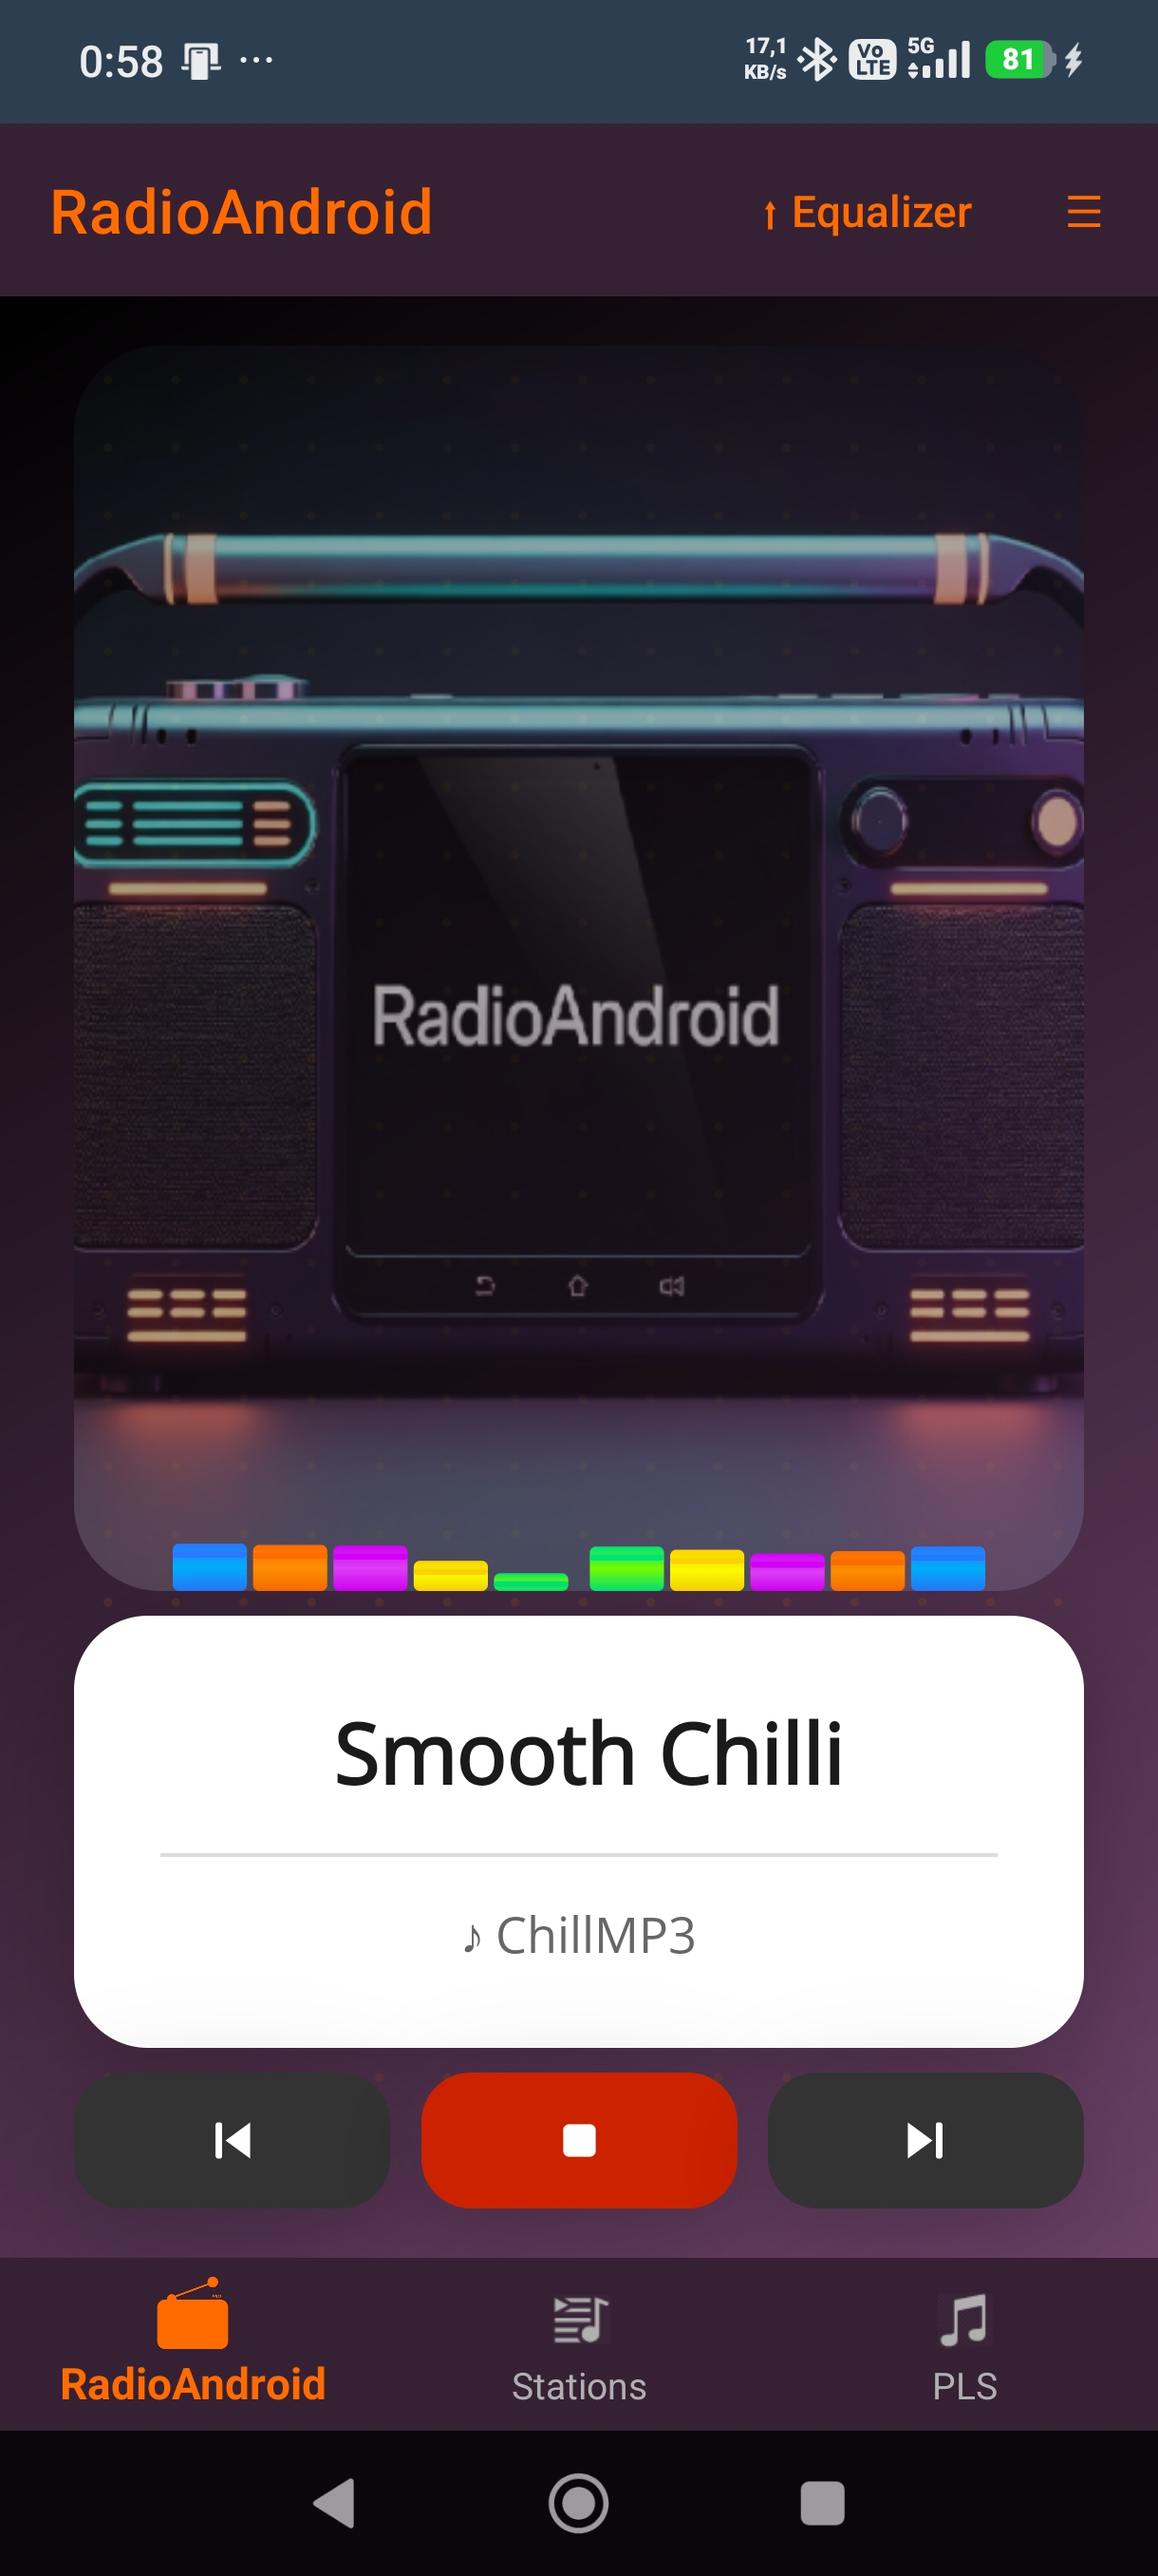
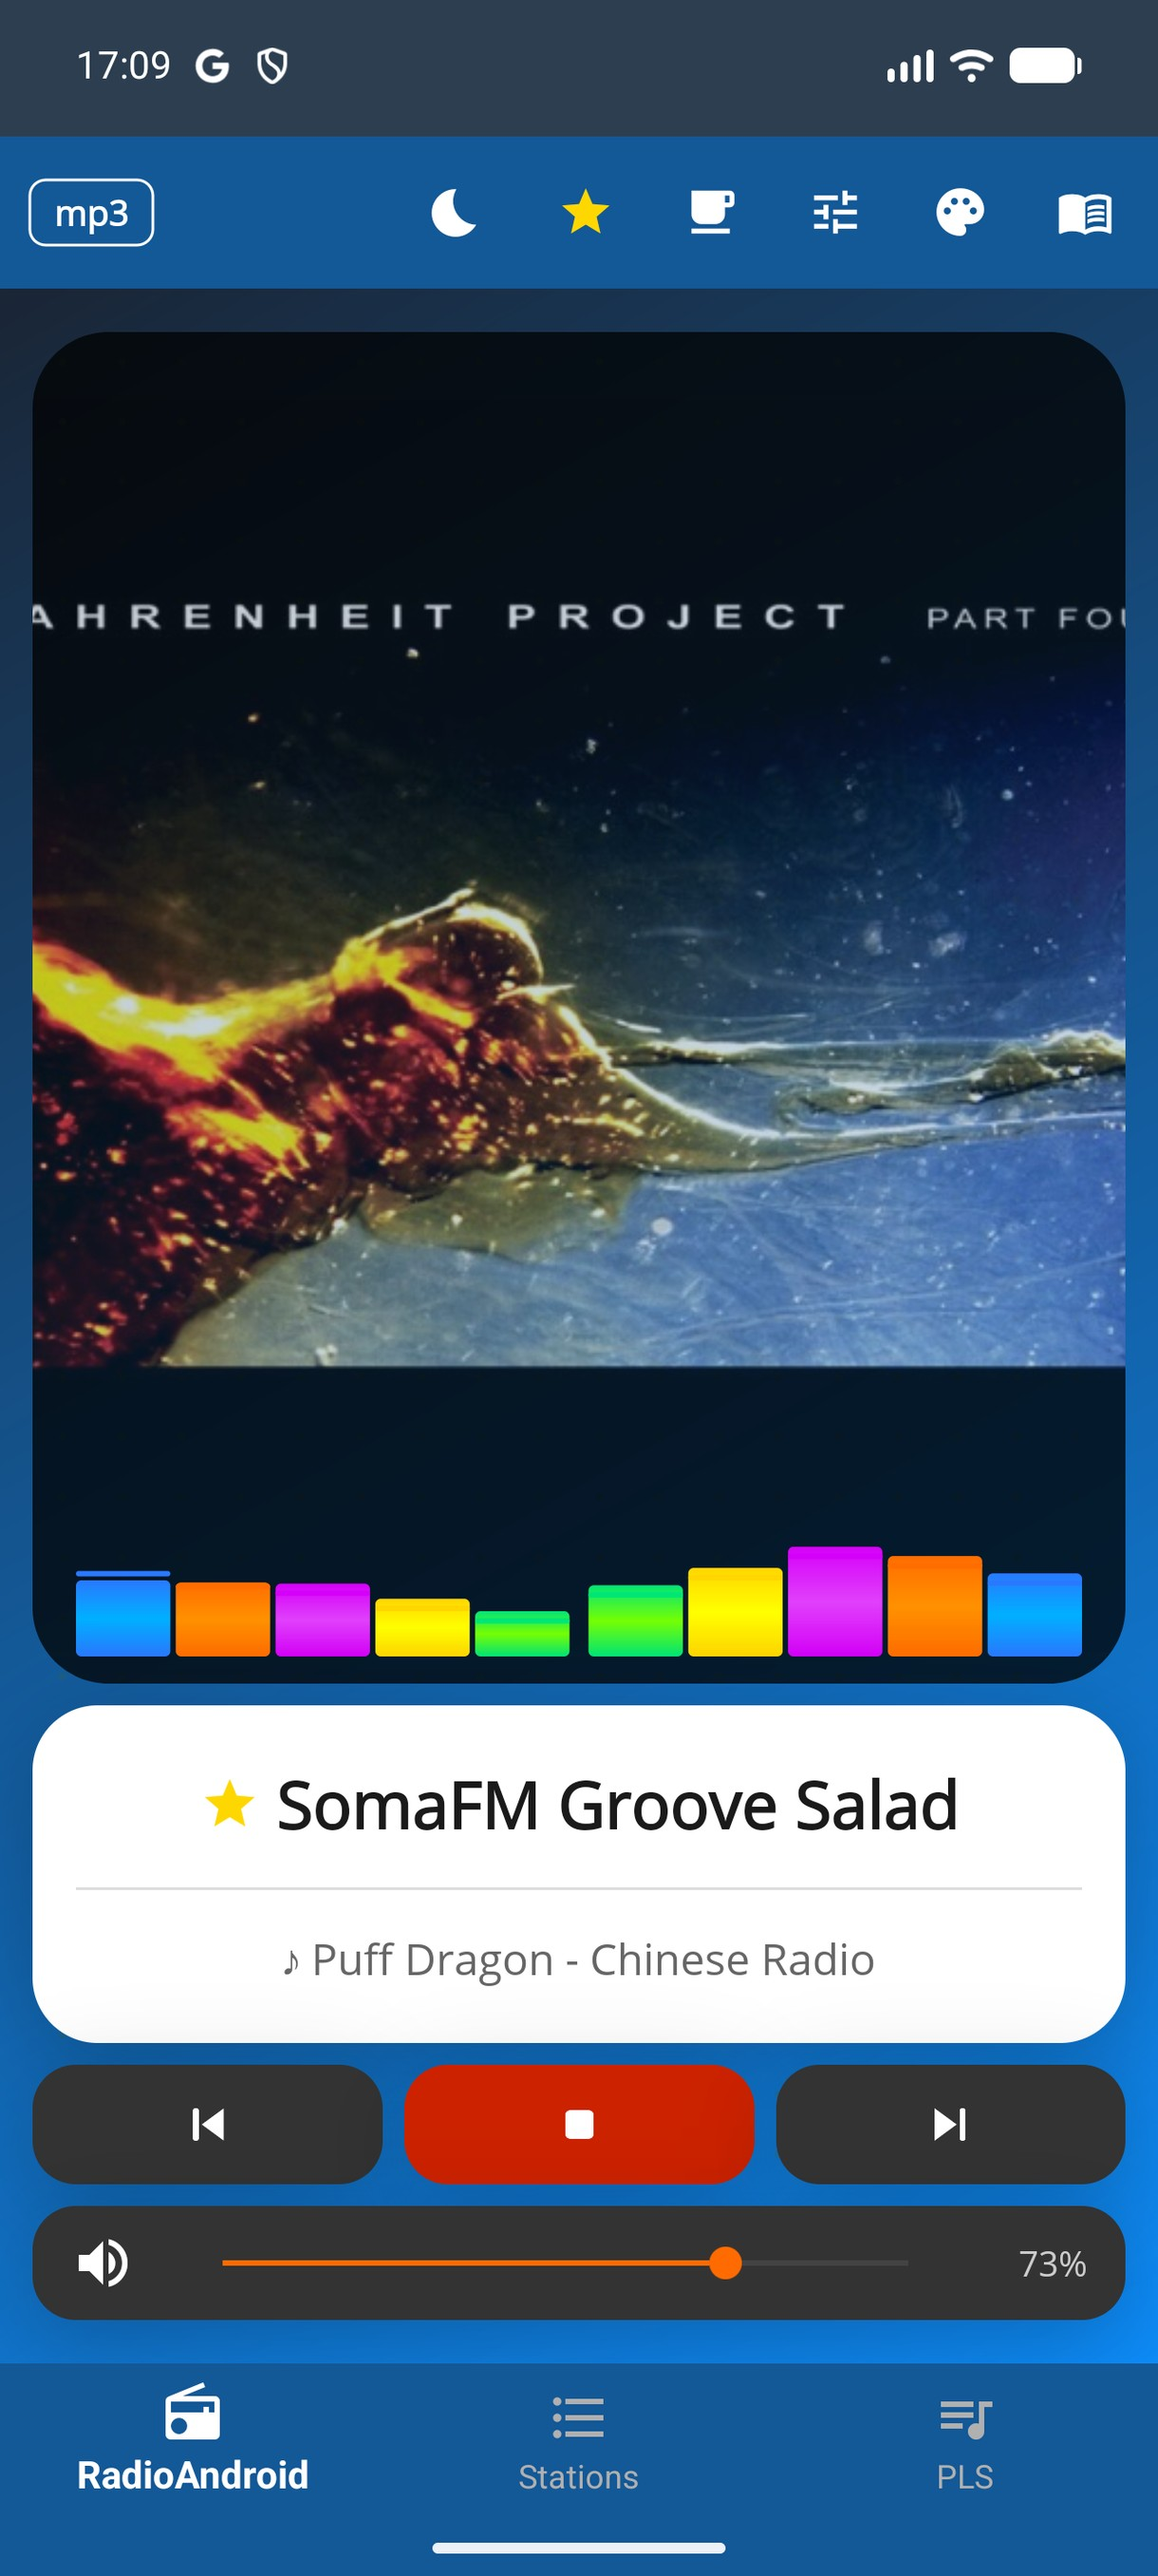
Strona: nowe zrzuty telefonu z wersji 6.6.7
- 28 zrzutow przerobionych od nowa na emulatorze: gracz w siedmiu skorkach
  z okladka i wskaznikiem VU, lista stacji (wiersze, kafelki, filtr ulubionych),
  edytor stacji, korektor, szuflada ustawien, wlasne kolory skorki, wylacznik
  czasowy, pomoc, PLS, Reconstructor pusty i z wczytana playlista, udostepnianie
  pliku, panel szybkich ustawien z powiadomieniem, ekran blokady, jasny motyw,
  przygaszona okladka.
- Zdjecia z glowicy i tabletow samochodowych (43-52) bez zmian.
- Opisy alt przepisane: wczesniej wszedzie bylo skopiowane "Favourites".

Claude-Session: https://claude.ai/code/session_011k3xgMJcYGnTkap5YNSZNE

diff --git a/index.html b/index.html
@@ -361,69 +361,69 @@ nav {
     <div class="screenshot-group">
       <div class="screenshot-group-label" style="color:var(--accent);">Current version</div>
       <div class="screenshot-grid">
-        <div class="screenshot-item"><img src="screenshot1.jpg" alt="Main player screen" loading="lazy"><p>RadioAndroid 6.0</p></div>
-        <div class="screenshot-item"><img src="screenshot2.jpg" alt="Stations list" loading="lazy"><p>RadioAndroid 6.0</p></div>
-        <div class="screenshot-item"><img src="screenshot3.jpg" alt="Station editor" loading="lazy"><p>RadioAndroid 6.0</p></div>
-        <div class="screenshot-item"><img src="screenshot4.jpg" alt="Equalizer" loading="lazy"><p>RadioAndroid 6.0</p></div>
+        <div class="screenshot-item"><img src="screenshot1.jpg" alt="Player screen with album art, VU meter and the blue skin" loading="lazy"><p>RadioAndroid 6.0</p></div>
+        <div class="screenshot-item"><img src="screenshot2.jpg" alt="Player screen playing SomaFM Drone Zone" loading="lazy"><p>RadioAndroid 6.0</p></div>
+        <div class="screenshot-item"><img src="screenshot3.jpg" alt="Player screen with the orange skin" loading="lazy"><p>RadioAndroid 6.0</p></div>
+        <div class="screenshot-item"><img src="screenshot4.jpg" alt="Player screen with the purple skin" loading="lazy"><p>RadioAndroid 6.0</p></div>
       </div>
     </div>
 
     <div class="screenshot-group">
       <div class="screenshot-group-label" style="color:var(--accent);">Current version</div>
       <div class="screenshot-grid">
-        <div class="screenshot-item"><img src="screenshot5.jpg" alt="Stations" loading="lazy"><p>RadioAndroid 6.0</p></div>
-        <div class="screenshot-item"><img src="screenshot6.jpg" alt="Android Auto" loading="lazy"><p>RadioAndroid 6.0</p></div>
-        <div class="screenshot-item"><img src="screenshot7.jpg" alt="Android Auto 2" loading="lazy"><p>RadioAndroid 6.0</p></div>
-        <div class="screenshot-item"><img src="screenshot8.jpg" alt="Bluetooth" loading="lazy"><p>RadioAndroid 6.0</p></div>
+        <div class="screenshot-item"><img src="screenshot5.jpg" alt="Player screen with the green skin" loading="lazy"><p>RadioAndroid 6.0</p></div>
+        <div class="screenshot-item"><img src="screenshot6.jpg" alt="Player screen with the dark navy skin" loading="lazy"><p>RadioAndroid 6.0</p></div>
+        <div class="screenshot-item"><img src="screenshot7.jpg" alt="Player screen with the light skin" loading="lazy"><p>RadioAndroid 6.0</p></div>
+        <div class="screenshot-item"><img src="screenshot8.jpg" alt="Station list in list view with favourite stars" loading="lazy"><p>RadioAndroid 6.0</p></div>
       </div>
     </div>
 
     <div class="screenshot-group">
       <div class="screenshot-group-label" style="color:var(--accent);">Current version</div>
       <div class="screenshot-grid">
-        <div class="screenshot-item"><img src="screenshot9.jpg" alt="Android Auto 3" loading="lazy"><p>RadioAndroid 6.0</p></div>
-        <div class="screenshot-item"><img src="screenshot10.jpg" alt="Background" loading="lazy"><p>RadioAndroid 6.0</p></div>
-        <div class="screenshot-item"><img src="screenshot11.jpg" alt="Lock screen" loading="lazy"><p>RadioAndroid 6.0</p></div>
-        <div class="screenshot-item"><img src="screenshot12.jpg" alt="Coming soon skins" loading="lazy"><p class="soon-tag">RadioAndroid 6.0</p></div>
+        <div class="screenshot-item"><img src="screenshot9.jpg" alt="Station list in tile view with station artwork" loading="lazy"><p>RadioAndroid 6.0</p></div>
+        <div class="screenshot-item"><img src="screenshot10.jpg" alt="Station list filtered down to favourites" loading="lazy"><p>RadioAndroid 6.0</p></div>
+        <div class="screenshot-item"><img src="screenshot11.jpg" alt="Station editor with name and stream URL" loading="lazy"><p>RadioAndroid 6.0</p></div>
+        <div class="screenshot-item"><img src="screenshot12.jpg" alt="Ten band equalizer with save, load and reset" loading="lazy"><p class="soon-tag">RadioAndroid 6.0</p></div>
       </div>
     </div>
 
     <div class="screenshot-group">
       <div class="screenshot-group-label" style="color:var(--accent);">Current version</div>
       <div class="screenshot-grid">
-        <div class="screenshot-item"><img src="screenshot13.jpg" alt="Skins" loading="lazy"><p class="soon-tag">RadioAndroid 6.0</p></div>
-        <div class="screenshot-item"><img src="screenshot14.jpg" alt="VU Meter" loading="lazy"><p class="soon-tag">RadioAndroid 6.0</p></div>
-        <div class="screenshot-item"><img src="screenshot15.jpg" alt="VU Meter 2" loading="lazy"><p class="soon-tag">RadioAndroid 6.0</p></div>
-        <div class="screenshot-item"><img src="screenshot16.jpg" alt="VU Meter 3" loading="lazy"><p class="soon-tag">RadioAndroid 6.0</p></div>
+        <div class="screenshot-item"><img src="screenshot13.jpg" alt="Side drawer: VU meter, app theme, cover art opacity and skins" loading="lazy"><p class="soon-tag">RadioAndroid 6.0</p></div>
+        <div class="screenshot-item"><img src="screenshot14.jpg" alt="Side drawer: custom skin colours mixed from RGB sliders" loading="lazy"><p class="soon-tag">RadioAndroid 6.0</p></div>
+        <div class="screenshot-item"><img src="screenshot15.jpg" alt="Sleep timer with preset times and a set time option" loading="lazy"><p class="soon-tag">RadioAndroid 6.0</p></div>
+        <div class="screenshot-item"><img src="screenshot16.jpg" alt="In-app help: contents of the user guide" loading="lazy"><p class="soon-tag">RadioAndroid 6.0</p></div>
       </div>
     </div>
 
     <div class="screenshot-group">
       <div class="screenshot-group-label" style="color:var(--accent);">Current version</div>
       <div class="screenshot-grid">
-        <div class="screenshot-item"><img src="screenshot17.jpg" alt="Skins editor" loading="lazy"><p class="soon-tag">RadioAndroid 6.0</p></div>
-        <div class="screenshot-item"><img src="screenshot18.jpg" alt="EQ presets" loading="lazy"><p class="soon-tag">RadioAndroid 6.0</p></div>
-        <div class="screenshot-item"><img src="screenshot19.jpg" alt="New feature" loading="lazy"><p class="soon-tag">RadioAndroid 6.0</p></div>
-        <div class="screenshot-item"><img src="screenshot20.jpg" alt="Playlist share" loading="lazy"><p class="soon-tag">RadioAndroid 6.0</p></div>
+        <div class="screenshot-item"><img src="screenshot17.jpg" alt="In-app help: list of guide topics" loading="lazy"><p class="soon-tag">RadioAndroid 6.0</p></div>
+        <div class="screenshot-item"><img src="screenshot18.jpg" alt="Playlists: save, load, share and the Reconstructor entry" loading="lazy"><p class="soon-tag">RadioAndroid 6.0</p></div>
+        <div class="screenshot-item"><img src="screenshot19.jpg" alt="Reconstructor PLS before any playlist is loaded" loading="lazy"><p class="soon-tag">RadioAndroid 6.0</p></div>
+        <div class="screenshot-item"><img src="screenshot20.jpg" alt="Sharing an exported playlist file to another app" loading="lazy"><p class="soon-tag">RadioAndroid 6.0</p></div>
       </div>
     </div>
 
     <div class="screenshot-group">
       <div class="screenshot-group-label" style="color:var(--accent);">Current version</div>
       <div class="screenshot-grid">
-        <div class="screenshot-item"><img src="screenshot21.jpg" alt="Favourites" loading="lazy"><p class="soon-tag">RadioAndroid 6.0</p></div>
-        <div class="screenshot-item"><img src="screenshot22.jpg" alt="Favourites 2" loading="lazy"><p class="soon-tag">RadioAndroid 6.0</p></div>
-        <div class="screenshot-item"><img src="screenshot23.jpg" alt="Favourites 3" loading="lazy"><p class="soon-tag">RadioAndroid 6.0</p></div>
-        <div class="screenshot-item"><img src="screenshot24.jpg" alt="Skins 2" loading="lazy"><p class="soon-tag">RadioAndroid 6.0</p></div>
+        <div class="screenshot-item"><img src="screenshot21.jpg" alt="Quick settings with the playback notification and album art" loading="lazy"><p class="soon-tag">RadioAndroid 6.0</p></div>
+        <div class="screenshot-item"><img src="screenshot22.jpg" alt="Lock screen with playback controls and album art" loading="lazy"><p class="soon-tag">RadioAndroid 6.0</p></div>
+        <div class="screenshot-item"><img src="screenshot23.jpg" alt="Player screen on a skin mixed by hand from two colours" loading="lazy"><p class="soon-tag">RadioAndroid 6.0</p></div>
+        <div class="screenshot-item"><img src="screenshot24.jpg" alt="Player screen with the VU meter in bar mode" loading="lazy"><p class="soon-tag">RadioAndroid 6.0</p></div>
       </div>
     </div>
 	<div class="screenshot-group">
       <div class="screenshot-group-label" style="color:var(--accent);">covers coming soon</div>
       <div class="screenshot-grid">
-        <div class="screenshot-item"><img src="screenshot25.jpg" alt="Skins" loading="lazy"><p class="soon-tag">RadioAndroid 6.0</p></div>
-        <div class="screenshot-item"><img src="screenshot26.jpg" alt="VU Meter" loading="lazy"><p class="soon-tag">RadioAndroid 6.0</p></div>
-        <div class="screenshot-item"><img src="screenshot27.jpg" alt="VU Meter 2" loading="lazy"><p class="soon-tag">RadioAndroid 6.0</p></div>
-        <div class="screenshot-item"><img src="screenshot28.jpg" alt="VU Meter 3" loading="lazy"><p class="soon-tag">RadioAndroid 6.0</p></div>
+        <div class="screenshot-item"><img src="screenshot25.jpg" alt="Player screen with the light app theme" loading="lazy"><p class="soon-tag">RadioAndroid 6.0</p></div>
+        <div class="screenshot-item"><img src="screenshot26.jpg" alt="Station list in tile view with the light app theme" loading="lazy"><p class="soon-tag">RadioAndroid 6.0</p></div>
+        <div class="screenshot-item"><img src="screenshot27.jpg" alt="Player screen with the cover art faded into the skin" loading="lazy"><p class="soon-tag">RadioAndroid 6.0</p></div>
+        <div class="screenshot-item"><img src="screenshot28.jpg" alt="Reconstructor PLS with a loaded playlist ready to merge" loading="lazy"><p class="soon-tag">RadioAndroid 6.0</p></div>
       </div>
     </div>
 
